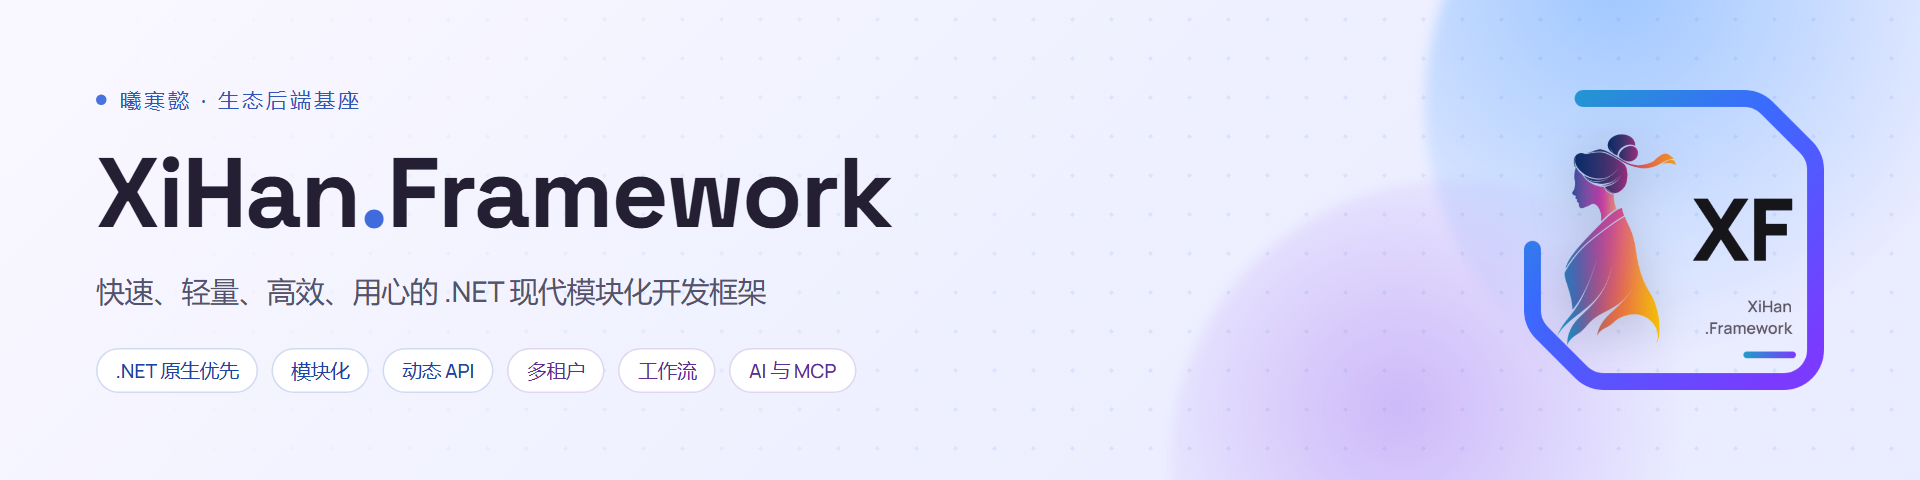
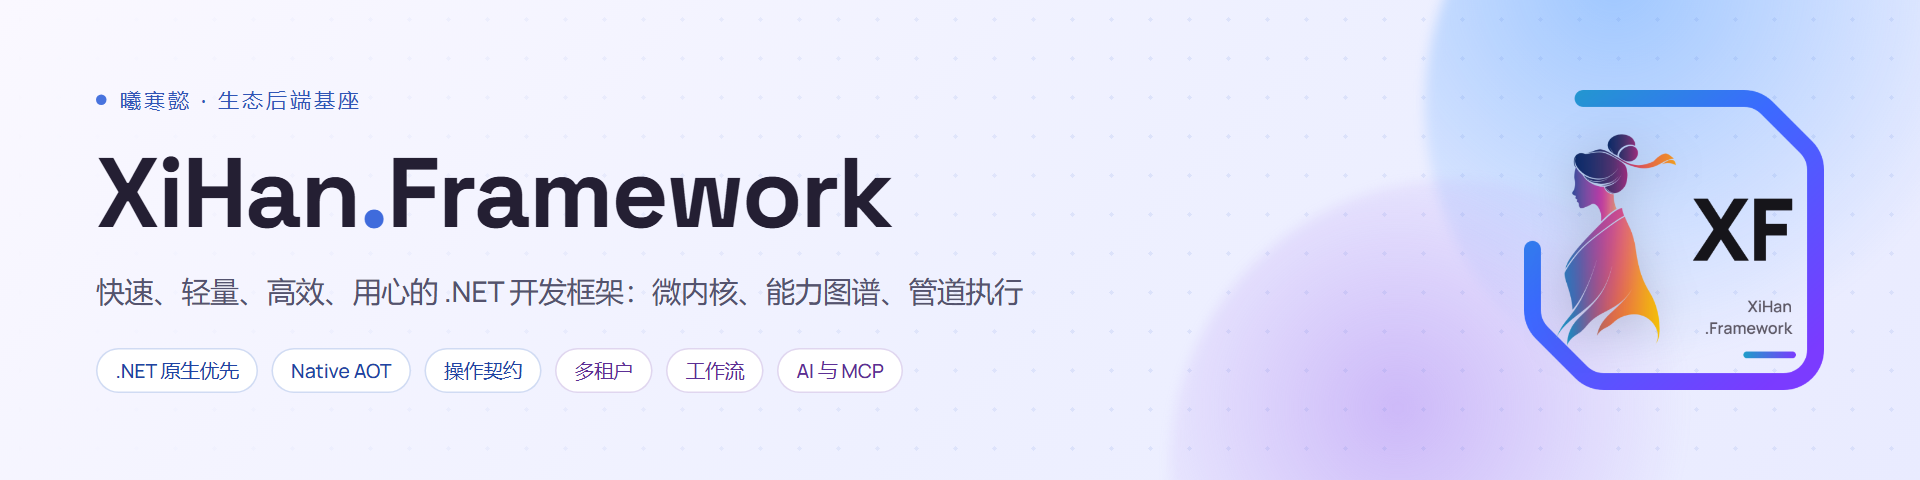
docs: 框架横幅标语改为微内核、能力图谱、管道执行，标签换成 Native AOT 与操作契约

Changed region(s): [[0.25, 0.5625, 0.5312, 0.6562], [0.1562, 0.7188, 0.4688, 0.8125]]

diff --git a/other/banner/XiHanFun-Banner.dc.html b/other/banner/XiHanFun-Banner.dc.html
@@ -136,11 +136,11 @@
     <div class="banner-text">
       <div class="banner-eyebrow">曦寒懿 · 生态后端基座</div>
       <div class="banner-title">XiHan<span>.</span>Framework</div>
-      <div class="banner-tagline">快速、轻量、高效、用心的 .NET 现代模块化开发框架</div>
+      <div class="banner-tagline">快速、轻量、高效、用心的 .NET 开发框架：微内核、能力图谱、管道执行</div>
       <div class="banner-chips">
         <span class="banner-chip">.NET 原生优先</span>
-        <span class="banner-chip">模块化</span>
-        <span class="banner-chip">动态 API</span>
+        <span class="banner-chip">Native AOT</span>
+        <span class="banner-chip">操作契约</span>
         <span class="banner-chip banner-chip-alt">多租户</span>
         <span class="banner-chip banner-chip-alt">工作流</span>
         <span class="banner-chip banner-chip-alt">AI 与 MCP</span>
@@ -236,11 +236,11 @@
     <div class="banner-text">
       <div class="banner-eyebrow">XiHanFun · Backend Foundation</div>
       <div class="banner-title">XiHan<span>.</span>Framework</div>
-      <div class="banner-tagline">A fast, lightweight, efficient and thoughtfully built modern modular framework for .NET</div>
+      <div class="banner-tagline">A fast, lightweight, efficient, thoughtful .NET framework: microkernel, capability graph, pipeline execution</div>
       <div class="banner-chips">
         <span class="banner-chip">.NET Native First</span>
-        <span class="banner-chip">Modular</span>
-        <span class="banner-chip">Dynamic API</span>
+        <span class="banner-chip">Native AOT</span>
+        <span class="banner-chip">Operation Contracts</span>
         <span class="banner-chip banner-chip-alt">Multi-Tenancy</span>
         <span class="banner-chip banner-chip-alt">Workflow</span>
         <span class="banner-chip banner-chip-alt">AI · MCP</span>
